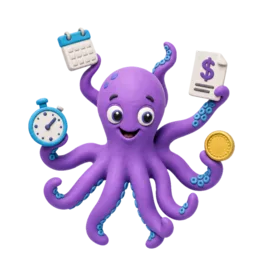
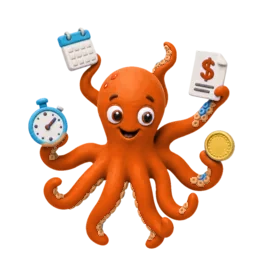
Tiq the octopus is orange now, with a warm shadow

Changed region(s): [[0.1515, 0.1515, 0.8788, 0.9394], [0.7576, 0.2121, 0.8182, 0.303], [0.1515, 0.4242, 0.2121, 0.4848]]

diff --git a/frontend/src/components/landing/octo/octo-swimmer.tsx b/frontend/src/components/landing/octo/octo-swimmer.tsx
@@ -315,7 +315,7 @@ export function OctoSwimmer() {
               width={240}
               height={240}
               draggable={false}
-              className="pointer-events-none w-full drop-shadow-[0_10px_18px_rgba(40,30,120,0.25)]"
+              className="pointer-events-none w-full drop-shadow-[0_10px_18px_rgba(120,50,10,0.25)]"
               style={{ transform: `scaleX(${face})` }}
             />
           </button>
@@ -349,7 +349,7 @@ export function OctoSwimmer() {
       <style>{`
         .tiq-bubble{border-radius:9999px;pointer-events:none;z-index:29;
           background:radial-gradient(circle at 30% 30%,rgba(255,255,255,.95),rgba(180,220,255,.35) 45%,rgba(120,170,255,.15) 70%);
-          box-shadow:inset 0 0 0 1px rgba(110,92,240,.25);animation:tiq-rise 3s ease-in forwards}
+          box-shadow:inset 0 0 0 1px rgba(120,170,255,.3);animation:tiq-rise 3s ease-in forwards}
         @keyframes tiq-rise{0%{transform:translate(0,0) scale(.6);opacity:0}
           15%{opacity:.9}50%{transform:translate(6px,-50px) scale(1)}
           100%{transform:translate(-4px,-110px) scale(1.1);opacity:0}}
